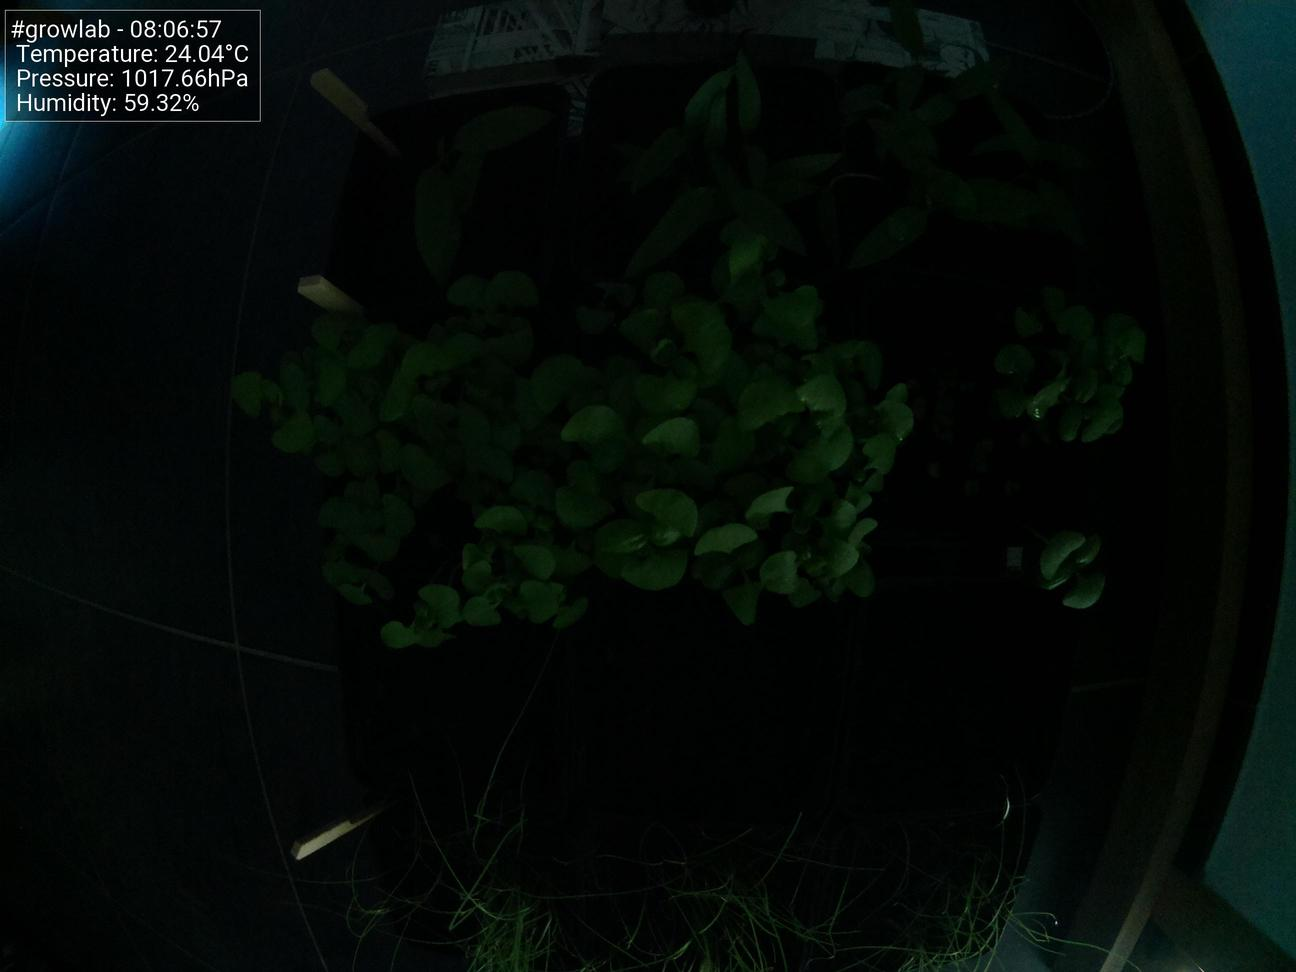
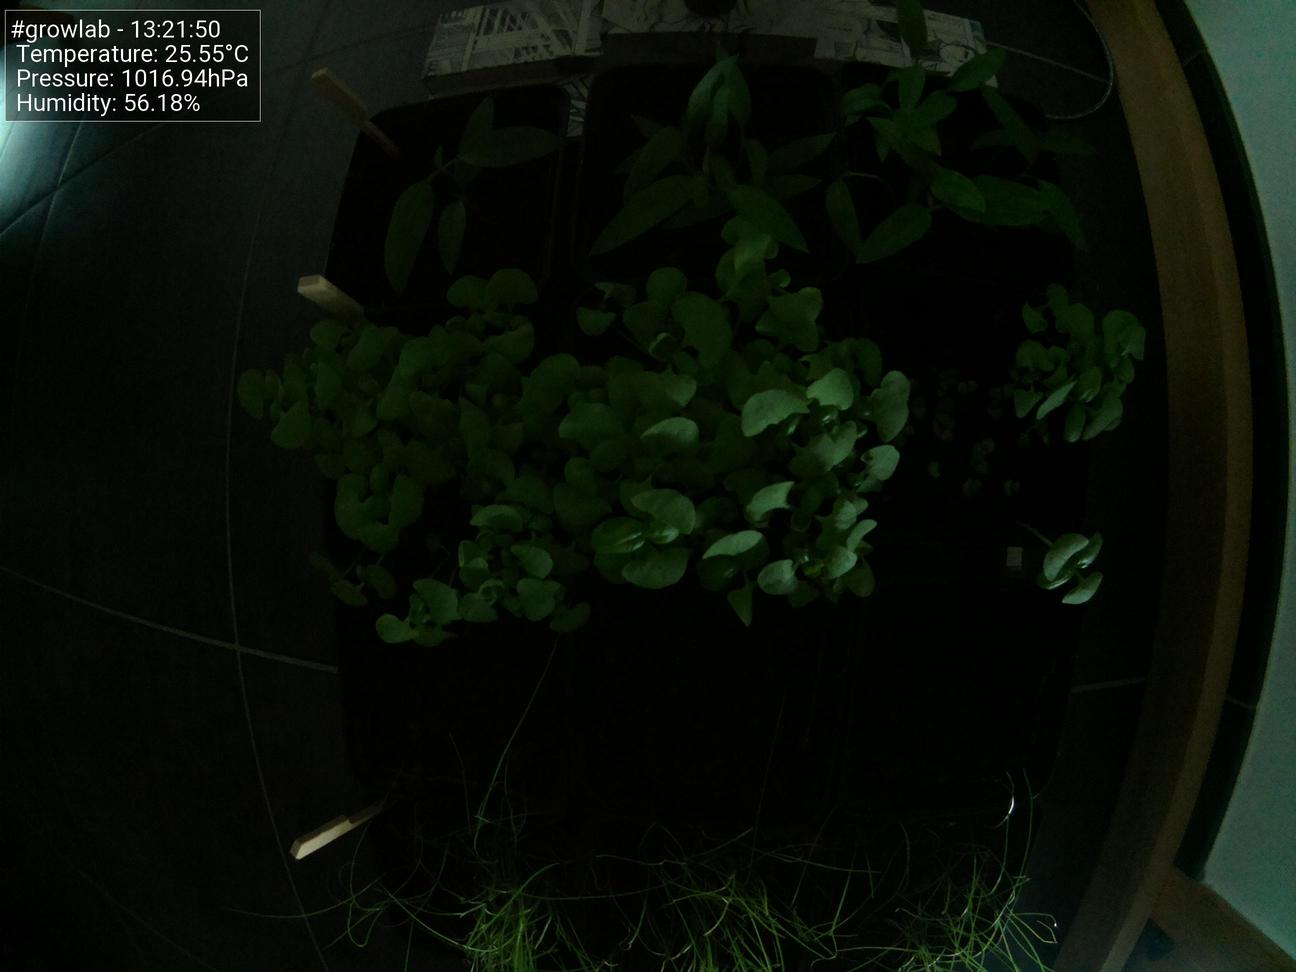
Update images at Mon 14 Jun 13:21:59 CEST 2021

diff --git a/index.html b/index.html
@@ -47,19 +47,19 @@
                         <tbody>
                             <tr>
                                 <td>Time</td>
-                                <td>08:06:57</td>
+                                <td>13:21:50</td>
                             </tr>
                             <tr>
                                 <td>Temperature</td>
-                                <td>24.04°C</td>
+                                <td>25.55°C</td>
                             </tr>
                             <tr>
                                 <td>Humidity</td>
-                                <td>59.32%</td>
+                                <td>56.18%</td>
                             </tr>
                             <tr>
                                 <td>Pressure</td>
-                                <td>1017.66hPa</td>
+                                <td>1016.94hPa</td>
                             </tr>
                         </tbody>
                     </table>
@@ -67,7 +67,7 @@
 
                 <h5>Latest image</h5>
                 <div style="width: 85%;">
-                            <img class="figure-img img-fluid rounded" src="./preview.jpg?uid=1623650825.6455207">
+                            <img class="figure-img img-fluid rounded" src="./preview.jpg?uid=1623669719.0322337">
                 </div>
             </div>
         </div>
